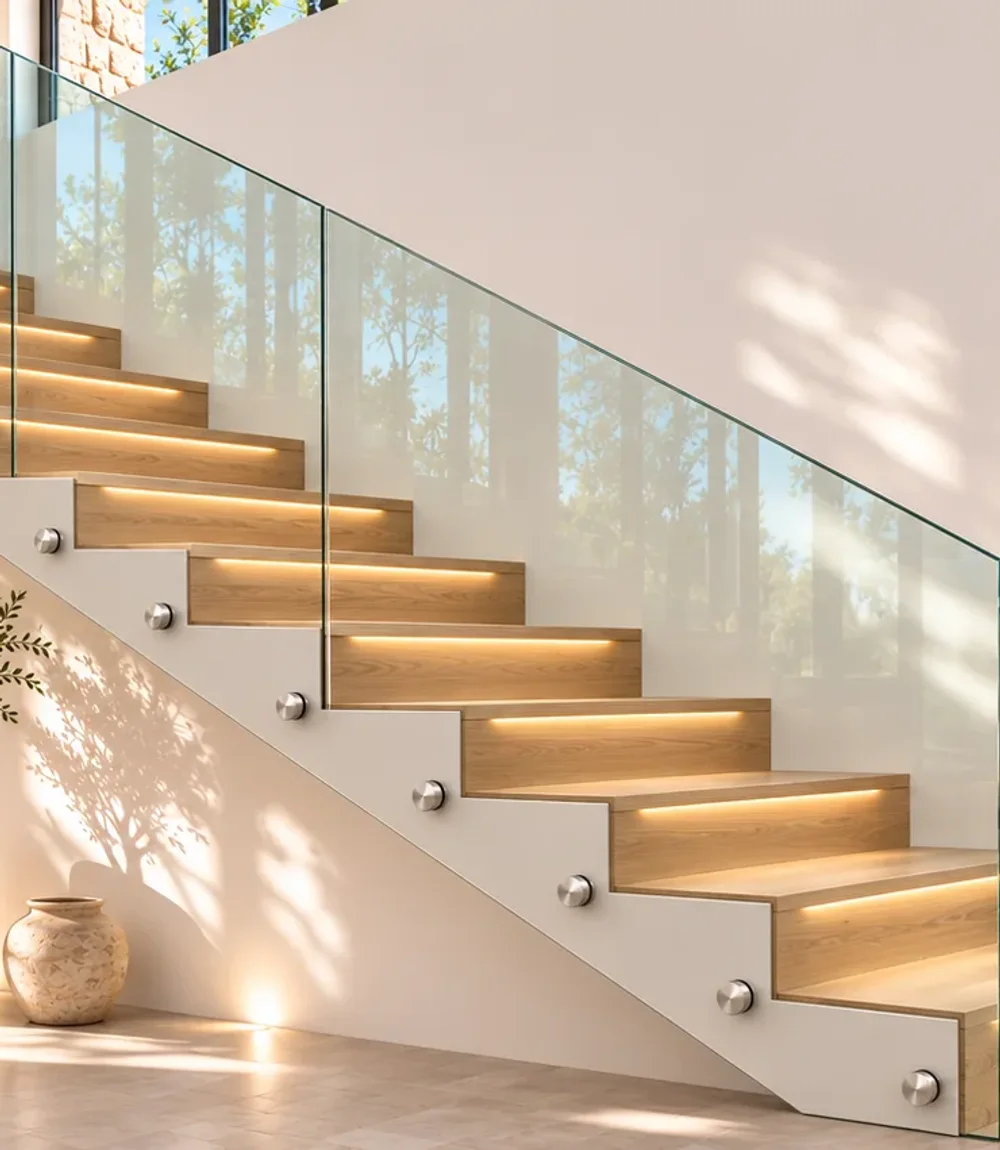
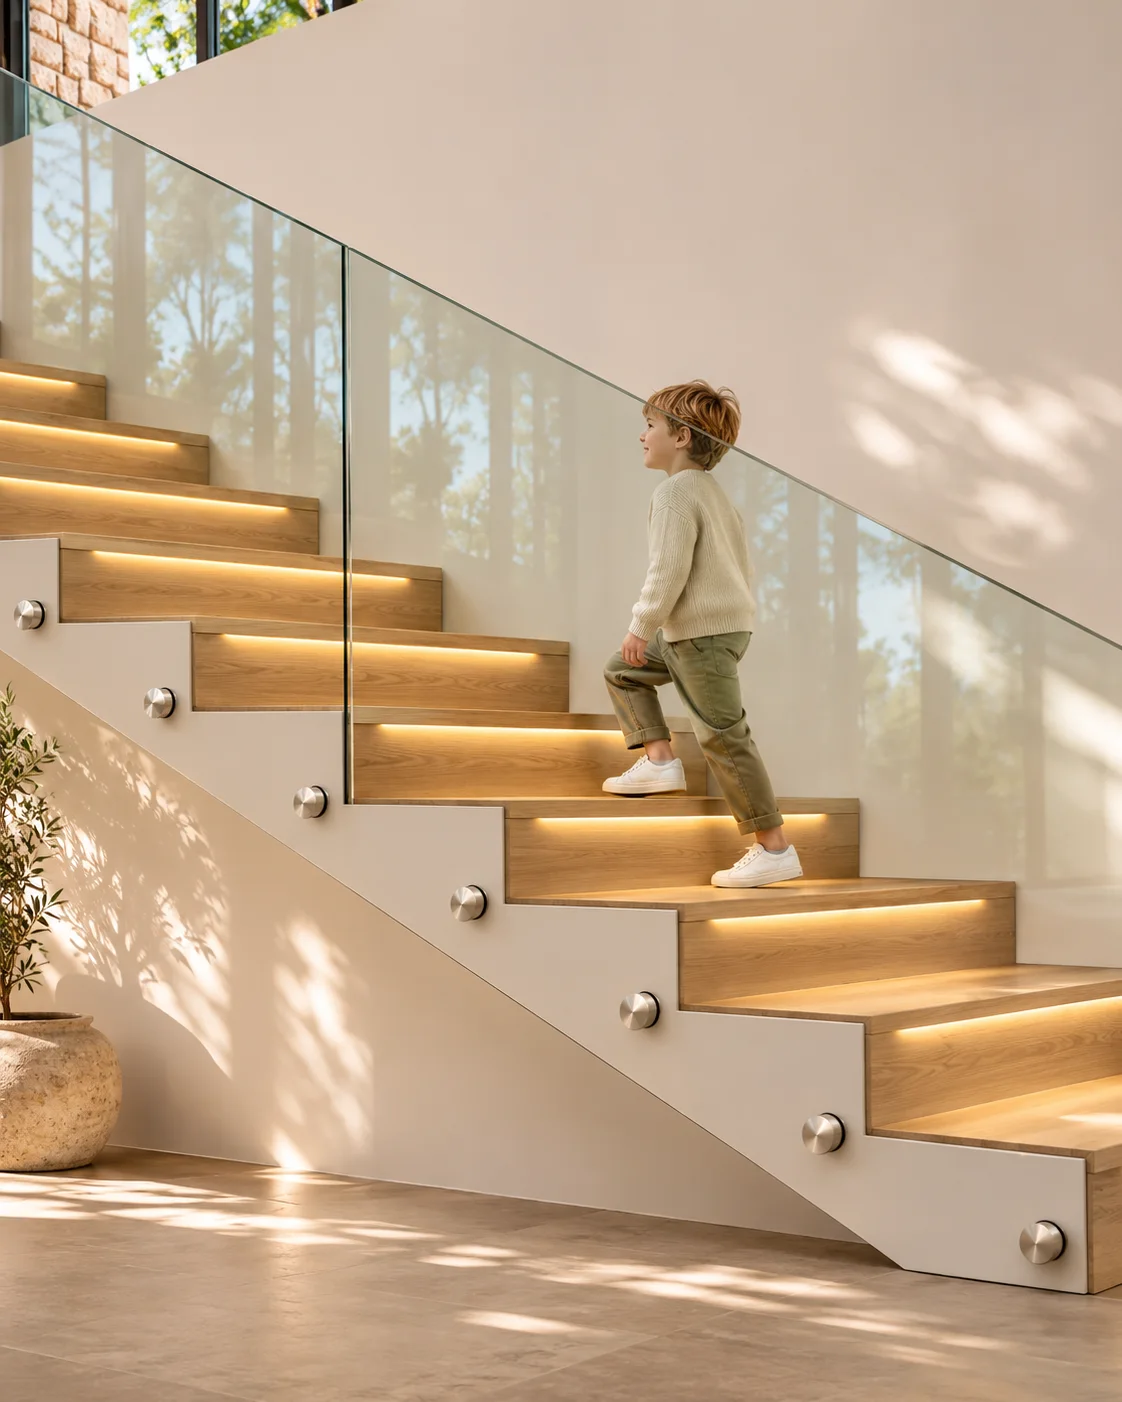
Bloc norme escalier : la photo avec l'enfant
L'upload remplace le visuel du bloc NF P01-012 de la page escalier
(converti 1,9 Mo PNG → 100 Ko WebP sous escalier-norme.webp, alt
réécrit) : un enfant monte le long du vitrage toute hauteur — la
sécurité se voit.

Claude-Session: https://claude.ai/code/session_019Do5VD42dL2tBQoAtobmtb

diff --git a/src/app/garde-corps/[slug]/usage-blocks.tsx b/src/app/garde-corps/[slug]/usage-blocks.tsx
@@ -372,7 +372,7 @@ export const USAGE_BLOCKS: Record<string, UsageBlocks> = {
       ),
       photo: {
         src: "/escalier-norme.webp",
-        alt: "Garde-corps d’escalier en verre suivant la pente d’une volée droite",
+        alt: "Un enfant monte sereinement un escalier protégé par un garde-corps en verre toute hauteur",
       },
       cta: { label: "Obtenir mon devis", href: "/generateur?usage=escalier" },
     },
